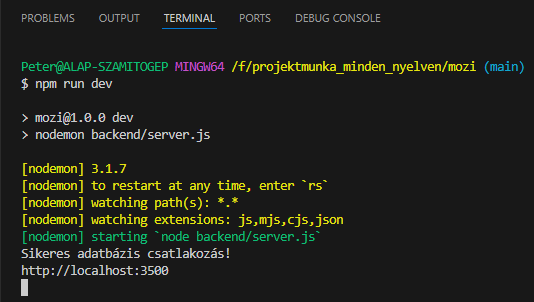
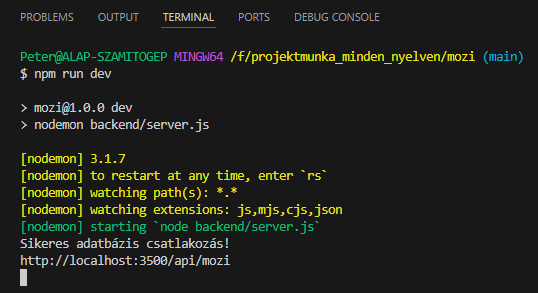
2024.10.08.

diff --git a/backend/server.js b/backend/server.js
@@ -15,7 +15,7 @@ mongoDbConnection()
         console.log('Sikeres adatbázis csatlakozás!');
 
         app.listen(PORT, () => {
-            console.log(`http://localhost:${PORT}`);
+            console.log(`http://localhost:${PORT}/api/mozi`);
         });
     })
     .catch((error) => {
@@ -23,3 +23,6 @@ mongoDbConnection()
     });
 
 app.use('/api/mozi', require('./routes/mainRoutes'));
+app.use('/api/mozi/filmek', require('./routes/filmekRoutes'));
+app.use('/api/mozi/nezok', require('./routes/nezokRoutes'));
+app.use('/api/mozi/foglalasok', require('./routes/foglalasokRoutes'));

diff --git a/backend/controllers/foglalasokRouteControllers.js b/backend/controllers/foglalasokRouteControllers.js
@@ -1,0 +1,10 @@
+const path = require('node:path');
+
+exports.getFoglalasok = (req, res) => {
+    try {
+        const viewsUt = path.join(__dirname, '..', 'views', 'foglalasok.ejs');
+        res.status(200).render(viewsUt);
+    } catch (error) {
+        res.status(500).json({ msg: error });
+    }
+};

diff --git a/backend/controllers/filmekRouteControllers.js b/backend/controllers/filmekRouteControllers.js
@@ -1,0 +1,10 @@
+const path = require('node:path');
+
+exports.getFilmek = (req, res) => {
+    try {
+        const viewsUt = path.join(__dirname, '..', 'views', 'filmek.ejs');
+        res.status(200).render(viewsUt);
+    } catch (error) {
+        res.status(500).json({ msg: error });
+    }
+};

diff --git a/backend/controllers/nezokRouteControllers.js b/backend/controllers/nezokRouteControllers.js
@@ -1,0 +1,10 @@
+const path = require('node:path');
+
+exports.getNezok = (req, res) => {
+    try {
+        const viewsUt = path.join(__dirname, '..', 'views', 'nezok.ejs');
+        res.status(200).render(viewsUt);
+    } catch (error) {
+        res.status(500).json({ msg: error });
+    }
+};

diff --git a/backend/routes/foglalasokRoutes.js b/backend/routes/foglalasokRoutes.js
@@ -1,0 +1,8 @@
+const express = require('express');
+const { getFoglalasok } = require('../controllers/foglalasokRouteControllers');
+
+const router = express.Router();
+
+router.get('/', getFoglalasok);
+
+module.exports = router;

diff --git a/backend/routes/filmekRoutes.js b/backend/routes/filmekRoutes.js
@@ -1,0 +1,8 @@
+const express = require('express');
+const { getFilmek } = require('../controllers/filmekRouteControllers');
+
+const router = express.Router();
+
+router.get('/', getFilmek);
+
+module.exports = router;

diff --git a/backend/routes/nezokRoutes.js b/backend/routes/nezokRoutes.js
@@ -1,0 +1,8 @@
+const express = require('express');
+const { getNezok } = require('../controllers/nezokRouteControllers');
+
+const router = express.Router();
+
+router.get('/', getNezok);
+
+module.exports = router;

diff --git a/markdown/backend_1.md b/markdown/backend_1.md
@@ -51,3 +51,18 @@
         ![Tizenharmadik kép](/markdown/images/kep_013.png)
 -   [ ] Kezdeti stílusolás a `stilus.css` állományban
         ![Tizennegyedik kép](/markdown/images/kep_014.png)
+-   [ ] Futtatás eredménye
+        ![Tizenötödik kép](/markdown/images/kep_015.png)
+
+## Negyedik lépés
+
+-   [ ] Készítsük el a **filmek**, **nezok** és **foglalasok** route-okat is. Példaként a **filmek** route-ot vesszük végig. Készítsünk egy `filmekRouteControllers.js` állományt a `controllers` mappában <br> `mozi/backend/controllers > touch filmekRouteControllers.js`
+        ![Tizenhatodik kép](/markdown/images/kep_016.png)
+-   [ ] Ezután készítsünk egy `filmekRoutes.js` állományt a `routes` mappában <br> `mozi/backend/controllers > cd ..` <br> `mozi/backend > cd routes` <br> `mozi/backend/routes > touch filmekRoutes.js`
+        ![Tizenhetedik kép](/markdown/images/kep_017.png)
+-   [ ] Már csak a `server.js` van hátra
+        ![Tizennyolcadik kép](/markdown/images/kep_018.png)
+-   [ ] És a `filmek.ejs` a `views` mappában <br> `mozi/backend/routes > cd ..` <br> `mozi/backend > cd views` <br> `mozi/backend/views > touch filmek.ejs`
+        ![Tizenkilencedik kép](/markdown/images/kep_019.png)
+-   [ ] Futtatás után
+        ![Huszadik kép](/markdown/images/kep_020.png)
